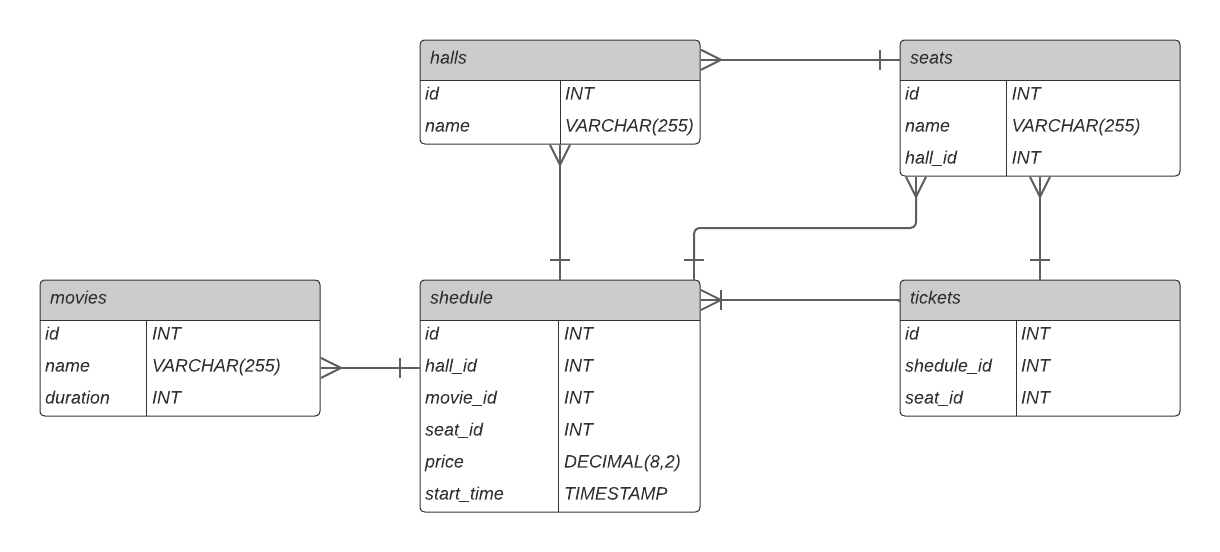
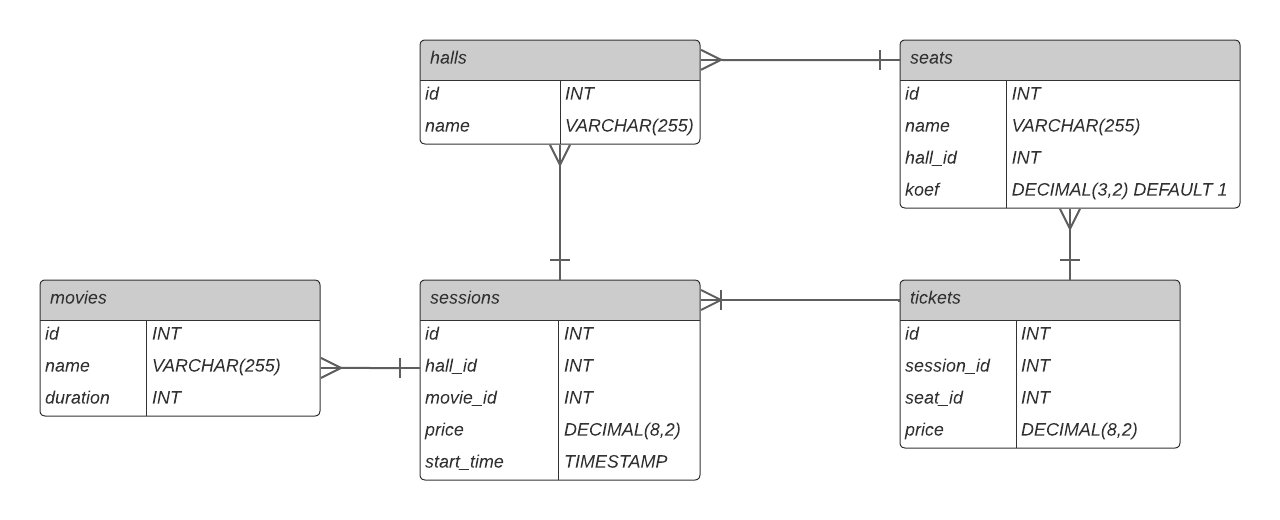
ДЗ №7: ревью

Changed region(s): [[0.0311, 0.0615, 0.9967, 0.9538]]

diff --git a/hw7/www/src/Db/Postgres.php b/hw7/www/src/Db/Postgres.php
@@ -21,10 +21,11 @@ class Postgres
             name VARCHAR(255) NOT NULL
         )');
 
-        $this->conn->exec('CREATE TABLE IF NOT EXISTS seats ( 
-            id SERIAL PRIMARY KEY, 
+        $this->conn->exec('CREATE TABLE IF NOT EXISTS seats (
+            id SERIAL PRIMARY KEY,
             name VARCHAR(255) NOT NULL,
             hall_id INT NOT NULL,
+            koef NUMERIC(3,2) DEFAULT 1,
             FOREIGN KEY (hall_id) REFERENCES halls (id)
         )');
 
@@ -34,23 +35,22 @@ class Postgres
             duration INT NOT NULL
         )');
 
-        $this->conn->exec('CREATE TABLE IF NOT EXISTS shedule ( 
+        $this->conn->exec('CREATE TABLE IF NOT EXISTS sessions ( 
             id SERIAL PRIMARY KEY, 
             movie_id INT NOT NULL,
             hall_id INT NOT NULL,
-            seat_id INT NOT NULL,
             price DECIMAL(8,2) NOT NULL,
             start_time TIMESTAMP NOT NULL,
             FOREIGN KEY (movie_id) REFERENCES movies (id),
-            FOREIGN KEY (hall_id) REFERENCES halls (id),
-            FOREIGN KEY (seat_id) REFERENCES seats (id)
+            FOREIGN KEY (hall_id) REFERENCES halls (id)
         )');
 
         $this->conn->exec('CREATE TABLE IF NOT EXISTS tickets (
             id SERIAL PRIMARY KEY,
-            shedule_id INT NOT NULL,
+            session_id INT NOT NULL,
             seat_id INT NOT NULL,
-            FOREIGN KEY (shedule_id) REFERENCES shedule (id),
+            price DECIMAL(8,2) NOT NULL,
+            FOREIGN KEY (session_id) REFERENCES sessions (id),
             FOREIGN KEY (seat_id) REFERENCES seats (id)
         )');
 
@@ -65,15 +65,15 @@ class Postgres
             $hallStatement->execute($arHall);
         }
 
-        $querySeat = 'INSERT INTO seats (name, hall_id) VALUES (:name, :hall_id)';
+        $querySeat = 'INSERT INTO seats (name, hall_id, koef) VALUES (:name, :hall_id, :koef)';
         $movieSeat = $this->conn->prepare($querySeat);
         $arSeats = [
-            ['name' => '1', 'hall_id' => 1],
-            ['name' => '10', 'hall_id' => 1],
-            ['name' => '50', 'hall_id' => 1],
-            ['name' => '11', 'hall_id' => 2],
-            ['name' => '22', 'hall_id' => 2],
-            ['name' => '33', 'hall_id' => 2],
+            ['name' => '1', 'hall_id' => 1, 'koef' => 1],
+            ['name' => '10', 'hall_id' => 1, 'koef' => 1],
+            ['name' => '50', 'hall_id' => 1, 'koef' => 1.5],
+            ['name' => '11', 'hall_id' => 2, 'koef' => 1.5],
+            ['name' => '22', 'hall_id' => 2, 'koef' => 1],
+            ['name' => '33', 'hall_id' => 2, 'koef' => 1],
         ];
         foreach($arSeats as $arSeat) {
             $movieSeat->execute($arSeat);
@@ -90,29 +90,29 @@ class Postgres
             $movieStatement->execute($arMovie);
         }
 
-        $querySession = 'INSERT INTO shedule (hall_id, movie_id, seat_id, price, start_time) VALUES (:hall_id, :movie_id, :seat_id, :price, :start_time)';
+        $querySession = 'INSERT INTO sessions (hall_id, movie_id, price, start_time) VALUES (:hall_id, :movie_id, :price, :start_time)';
         $sessionStatement = $this->conn->prepare($querySession);
         $arSessions = [
-            ['hall_id' => 1, 'movie_id' => 1, 'seat_id' => 1, 'price' => 10, 'start_time' => '2023-12-01 10:00:00'],
-            ['hall_id' => 2, 'movie_id' => 2, 'seat_id' => 1, 'price' => 10, 'start_time' => '2023-12-01 10:00:00'],
-            ['hall_id' => 1, 'movie_id' => 3, 'seat_id' => 1, 'price' => 10, 'start_time' => '2023-12-01 12:00:00'],
+            ['hall_id' => 1, 'movie_id' => 1, 'price' => 10, 'start_time' => '2023-12-01 10:00:00'],
+            ['hall_id' => 2, 'movie_id' => 2, 'price' => 20, 'start_time' => '2023-12-01 10:00:00'],
+            ['hall_id' => 1, 'movie_id' => 3, 'price' => 30, 'start_time' => '2023-12-01 12:00:00'],
         ];
         foreach($arSessions as $arSession) {
             $sessionStatement->execute($arSession);
         }
 
-        $queryTicket = 'INSERT INTO tickets (shedule_id, seat_id) VALUES (:shedule_id, :seat_id)';
+        $queryTicket = 'INSERT INTO tickets (session_id, seat_id, price) VALUES (:session_id, :seat_id, :price)';
         $ticketStatement = $this->conn->prepare($queryTicket);
         $arTickets = [
-            ['shedule_id' => 1, 'seat_id' => 1],
-            ['shedule_id' => 1, 'seat_id' => 2],
-            ['shedule_id' => 1, 'seat_id' => 3],
-            ['shedule_id' => 1, 'seat_id' => 4],
-            ['shedule_id' => 1, 'seat_id' => 5],
-            ['shedule_id' => 2, 'seat_id' => 6],
-            ['shedule_id' => 2, 'seat_id' => 1],
-            ['shedule_id' => 2, 'seat_id' => 2],
-            ['shedule_id' => 3, 'seat_id' => 3],
+            ['session_id' => 1, 'seat_id' => 1, 'price' => 10],
+            ['session_id' => 1, 'seat_id' => 2, 'price' => 10],
+            ['session_id' => 1, 'seat_id' => 3, 'price' => 20],
+            ['session_id' => 1, 'seat_id' => 4, 'price' => 20],
+            ['session_id' => 1, 'seat_id' => 5, 'price' => 10],
+            ['session_id' => 2, 'seat_id' => 6, 'price' => 30],
+            ['session_id' => 2, 'seat_id' => 1, 'price' => 30],
+            ['session_id' => 2, 'seat_id' => 2, 'price' => 30],
+            ['session_id' => 3, 'seat_id' => 3, 'price' => 10],
         ];
         foreach($arTickets as $arTicket) {
             $ticketStatement->execute($arTicket);
@@ -124,10 +124,10 @@ class Postgres
     public function getProfitFilm(): string
     {
         $statement = $this->conn->query('
-            SELECT M.name, SUM(S.price) as profit
+            SELECT M.name, SUM(T.price) as profit
             FROM movies M 
-            INNER JOIN shedule S ON S.movie_id = M.id
-            INNER JOIN tickets T ON T.shedule_id = S.id
+            INNER JOIN sessions S ON S.movie_id = M.id
+            INNER JOIN tickets T ON T.session_id = S.id
             GROUP BY M.id
             ORDER BY profit DESC
             LIMIT 1
